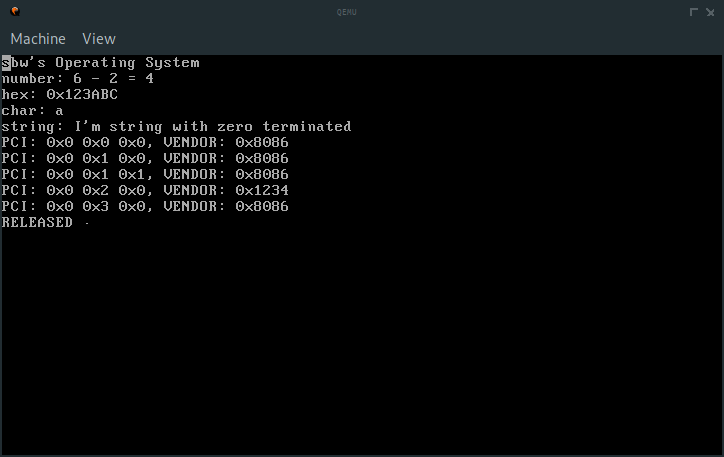
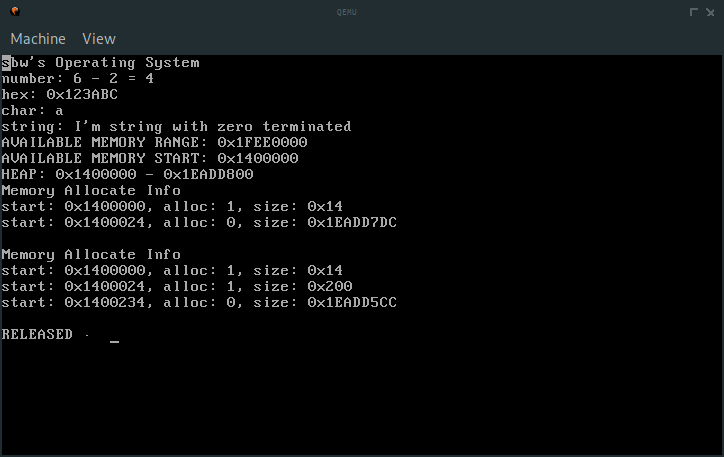
Fix: screenmanager instance invalid
don't known why..

diff --git a/src/kernel.cpp b/src/kernel.cpp
@@ -51,10 +51,6 @@ extern "C" void kernelMain(void *multiboot_structure, uint32_t magic_number)
     size_t heap = 20 * 1024 * 1024;
     MemoryManager memMgr(heap, (*mem_upper) * 1024 - heap - 10 * 1024);
 
-    ScreenManager *sm = ScreenManager::instance();
-    sm->setCurrentX(0);
-    sm->setCurrentY(0);
-
     printf("sbw's Operating System\n");
     printf("number: %d - %d = %d\n", 6, 2, 6 - 2);
     printf("hex: %x\n", 0x0123abc);
@@ -83,8 +79,8 @@ extern "C" void kernelMain(void *multiboot_structure, uint32_t magic_number)
     drvMgr.appendDriver(&keyboardDriver);
     drvMgr.activateAll();
 
-    PeripheralComponentInterconnectController pciController;
-    pciController.selectDrivers(&drvMgr);
+    // PeripheralComponentInterconnectController pciController;
+    // pciController.selectDrivers(&drvMgr);
 
     interrupts.activate();
 

diff --git a/src/screenmanager.cpp b/src/screenmanager.cpp
@@ -1,8 +1,6 @@
 
 #include "screenmanager.h"
 
-ScreenManager *ScreenManagerInstance = nullptr;
-
 uint16_t * const VideoMemLoc = (uint16_t *)0xb8000;
 const int MaxScreenWidth = 80;
 const int MaxScreenHeight = 25;
@@ -11,10 +9,10 @@ ScreenManager *ScreenManager::instance()
 {
     static ScreenManager *instance = nullptr;
 
-    if (!instance)
+    if (instance == nullptr)
         instance = new ScreenManager;
 
-    return ScreenManagerInstance;
+    return instance;
 }
 
 uint8_t ScreenManager::maximumScreenHeight()

diff --git a/README.md b/README.md
@@ -30,7 +30,7 @@ When build done, you can found `sos.iso` and `sos_kernel` in your build dir.
 
 ## Run
 ```shell
-make launch-qemu
+qemu-system-x86_64 -boot d -cdrom sos.iso -m 512
 ```
 
 # Screenshots
